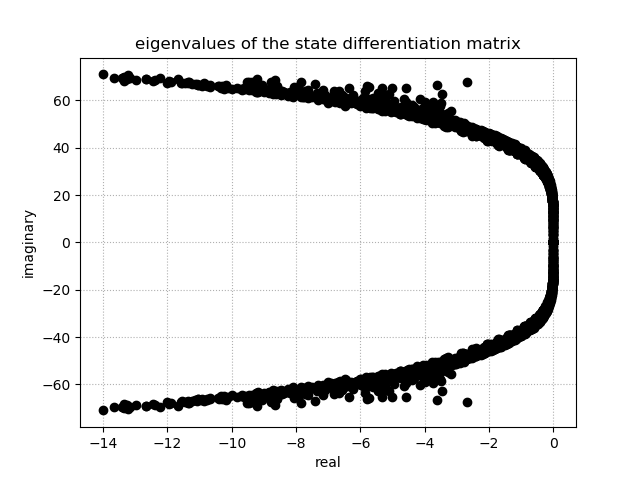
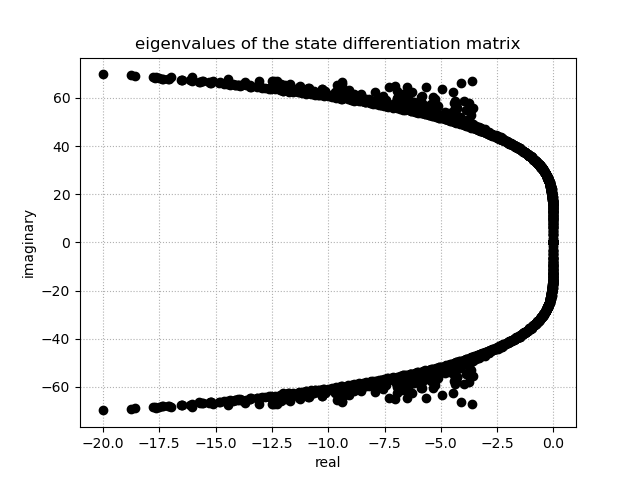
added the use_pinv argument back to rbf.pde.fd.weights and weight_matrix. fixed the hyperviscosity matrices to include the mixed derivative term

diff --git a/rbf/pde/fd.py b/rbf/pde/fd.py
@@ -55,7 +55,8 @@ def weights(x, s, diffs,
             coeffs=None,
             phi=phs3,
             order=None,
-            eps=1.0):
+            eps=1.0,
+            use_pinv=False):
   '''
   Returns the weights which map a functions values at `s` to an approximation
   of that functions derivative at `x`. The weights are computed using the
@@ -97,6 +98,11 @@ def weights(x, s, diffs,
     Shape parameter for each RBF, which have centers `s`. This only makes a
     difference when using RBFs that are not scale invariant. All the predefined
     RBFs except for the odd order polyharmonic splines are not scale invariant.
+
+  use_pinv : bool, optional
+    If raised, the weights are computed with a Moore-Penrose inverse. This is
+    for when the stencil may have duplicate or collinear points that would
+    otherwise cause an error.
 
   Returns
   -------
@@ -175,32 +181,40 @@ def weights(x, s, diffs,
   p = np.zeros((1, pwr.shape[0]), dtype=float)
   for c, d in zip(coeffs, diffs):
     a += c*phi(x[None, :], s, eps=eps, diff=d)
-    p += c*mvmonos(x[None, :], pwr, diff=d) 
-  
+    p += c*mvmonos(x[None, :], pwr, diff=d)
+
   # squeeze `a` and `p` into 1d arrays. `a` is ran through as_array because it
   # may be sparse.
   a = as_array(a)[0]
   p = p[0]
 
   # attempt to compute the RBF-FD weights
-  try:
-    w = PartitionedSolver(A, P).solve(a, p)[0]
-    return w
+  if use_pinv:
+    Z = np.zeros((pwr.shape[0], pwr.shape[0]))
+    G = np.vstack((np.hstack((A, P)), np.hstack((P.T, Z))))
+    d = np.hstack((a, p))
+    w = np.linalg.lstsq(G, d, rcond=None)[0][:a.shape[0]]
 
-  except np.linalg.LinAlgError:
-    raise np.linalg.LinAlgError(
-      'An error was raised while computing the RBF-FD weights at point %s '
-      'with the RBF %s and the polynomial order %s. This may be due to a '
-      'stencil with duplicate or collinear points. The stencil contains the '
-      'following points:\n%s' % (x, phi, order, s))
+  else:
+    try:
+      w = PartitionedSolver(A, P).solve(a, p)[0]
 
+    except np.linalg.LinAlgError:
+      raise np.linalg.LinAlgError(
+        'An error was raised while computing the RBF-FD weights at point %s '
+        'with the RBF %s and the polynomial order %s. This may be due to a '
+        'stencil with duplicate or collinear points. The stencil contains the '
+        'following points:\n%s' % (x, phi, order, s))
+
+  return w
 
 def weight_matrix(x, p, n, diffs,
                   coeffs=None,
                   phi=phs3,
                   order=None,
                   eps=1.0,
-                  stencils=None):
+                  stencils=None,
+                  use_pinv=False):
   '''
   Returns a weight matrix which maps a functions values at `p` to an
   approximation of that functions derivative at `x`. This is a convenience
@@ -247,6 +261,11 @@ def weight_matrix(x, p, n, diffs,
     difference when using RBFs that are not scale invariant.  All the
     predefined RBFs except for the odd order polyharmonic splines are not scale
     invariant.
+
+  use_pinv : bool, optional
+    If raised, the weights are computed with a Moore-Penrose inverse. This is
+    for when the stencil may have duplicate or collinear points that would
+    otherwise cause an error.
 
   Returns
   -------
@@ -305,7 +324,7 @@ def weight_matrix(x, p, n, diffs,
 
     data[i, :] = weights(x[i], p[si], diffs,
                          coeffs=coeffs[:, i], eps=eps[si],
-                         phi=phi, order=order)
+                         phi=phi, order=order, use_pinv=use_pinv)
 
 
   rows = np.repeat(range(data.shape[0]), data.shape[1])

diff --git a/docs/scripts/fd.d.py b/docs/scripts/fd.d.py
@@ -43,7 +43,7 @@ nu = 1e-6
 # whether to plot the eigenvalues for the state differentiation matrix. All the
 # eigenvalues must have a negative real component for the time stepping to be
 # stable
-plot_eigs = False
+plot_eigs = True
 # number of nodes used for each RBF-FD stencil
 stencil_size = 50
 # the polynomial order for generating the RBF-FD weights
@@ -121,7 +121,8 @@ H = -nu*weight_matrix(
     x=nodes[groups['interior+boundary:all']],
     p=nodes[groups['interior+boundary:all']],
     n=stencil_size,
-    diffs=[(4, 0), (0, 4)],
+    diffs=[(4, 0), (2, 2), (0, 4)],
+    coeffs=[1.0, 2.0, 1.0],
     phi='phs5',
     order=4)
 H = expand_rows(H, groups['interior+boundary:all'], n)

diff --git a/docs/scripts/fd.l.py b/docs/scripts/fd.l.py
@@ -131,7 +131,8 @@ H = -nu*weight_matrix(
     x=nodes[groups['interior+boundary:all']],
     p=nodes[groups['interior+boundary:all']],
     n=stencil_size,
-    diffs=[(4, 0), (0, 4)],
+    diffs=[(4, 0), (2, 2), (0, 4)],
+    coeffs=[1.0, 2.0, 1.0],
     phi='phs5',
     order=4)
 H = H.tocsc()
